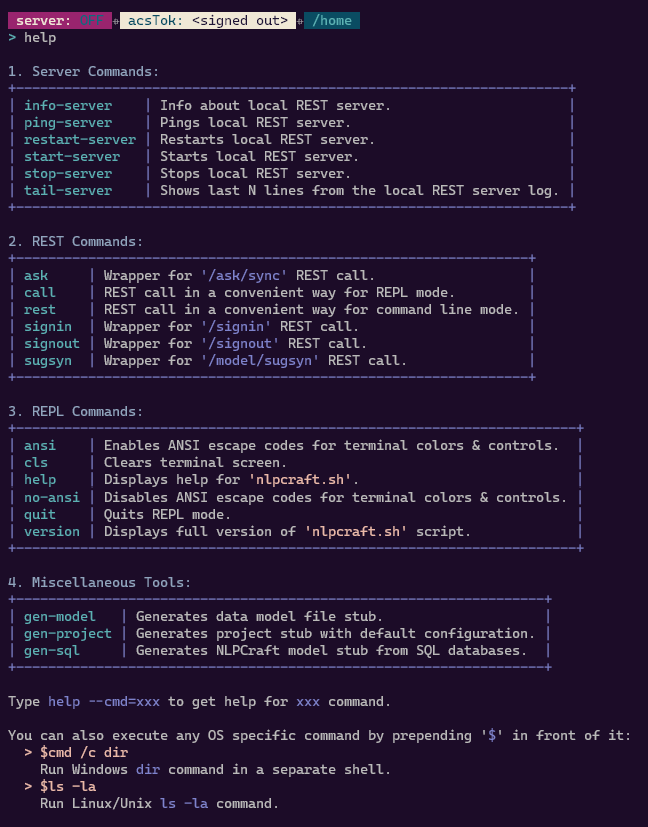
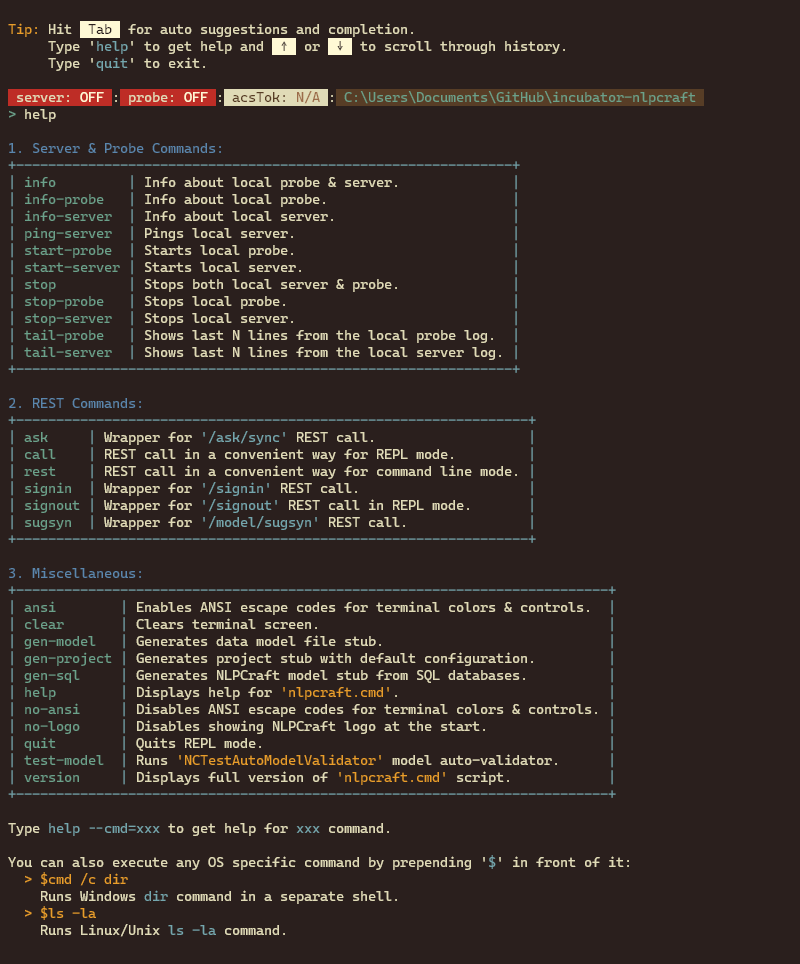
WIP.

diff --git a/tools/script.html b/tools/script.html
@@ -25,10 +25,10 @@ id: script
     <section id="overview">
         <h2 class="section-title">Overview</h2>
         <p>
-            <code>bin/nlpcraft.{sh|cmd}</code> script is a <b>central management utility</b> for NLPCraft. Most
-            of the functions this script does can be done through running
-            Java applications - yet using this script you can accomplish the same things much simpler and quicker.
-            From starting and managing REST server, running various built-in tools, to testing models via REST API -
+            <code>bin/nlpcraft.{sh|cmd}</code> script is a <b>central management utility</b> for NLPCraft that supports
+            REPL (interactive) and command line modes. Most of the functions this script does can be done through running
+            Java applications or using REST API - yet using this script you can perform the same tasks much simpler and quicker.
+            From starting and managing REST server and probes, running various built-in tools, to testing models via REST API -
             <code>bin/nlpcraft.{sh|cmd}</code> script provides a single centralized utility that makes a quick work out
             of all these routine tasks.
         </p>
@@ -47,8 +47,8 @@ id: script
         </div>
         <p>
             The script is located in <code>/bin</code> sub-folder of the installation root and is available for
-            Unix/Linux (<code>nlpcraft.sh</code>) and Windows (<code>nlpcraft.cmd</code>) environments. We will use
-            <code>.sh</code> version for the rest of instructions unless specified otherwise.
+            Unix/Linux (<code>nlpcraft.sh</code>) and Windows (<code>nlpcraft.cmd</code>) environments. Both versions
+            provide identical functionality.
         </p>
     </section>
     <section id="quick_start">
@@ -75,8 +75,25 @@ id: script
             <img class="non-fluid-img" src="/images/cli1.png" alt="">
         </p>
         <p>
-            Script starts in the REPL mode by default.
+            Script starts in the REPL mode by default. Note that in REPL mode the command prompt always shows REST
+            server status, local probe status, REST access token (if any) as well as current working directory.
         </p>
+        <div class="bq info">
+            <b>REPL Prompt</b>
+            <p>
+                REPL prompt shows 4 pieces of information:
+            </p>
+            <ul>
+                <li>REST server status (<code>ON</code> if server is started and detected, <code>OFF</code> otherwise).</li>
+                <li>Local probe status (<code>ON</code> if probe is started and connected to the server, <code>OFF</code> otherwise).</li>
+                <li>REST access token if the user is signed in. This token is required for all REST calls.</li>
+                <li>Current user working directory.</li>
+            </ul>
+            <p>
+                Note that when using <code>start-server</code> command the default user account is automatically signed in
+                upon server start and the access token is obtained. You can sign in with different user account, if necessary.
+            </p>
+        </div>
         <h2 class="section-sub-title">Get Command List</h2>
         <p>
             Type <code>help</code> to list all supported commands (or run <code>bin/nlpcraft.sh help</code> if in command line mode):
@@ -94,9 +111,6 @@ id: script
         <p>
             Use <span class="keyboard">Tab</span> key anytime for command auto-suggestion and auto-completion.<br/>
             Use <span class="keyboard">↑</span> and <span class="keyboard">↓</span> keys to scroll through command history.
-        </p>
-        <p>
-            <img class="non-fluid-img" alt="" src="/images/cli8.png">
         </p>
         <p>
             To exit <code>bin/nlpcraft.{sh|cmd}</code> script in REPL mode type <code>quit</code>.
